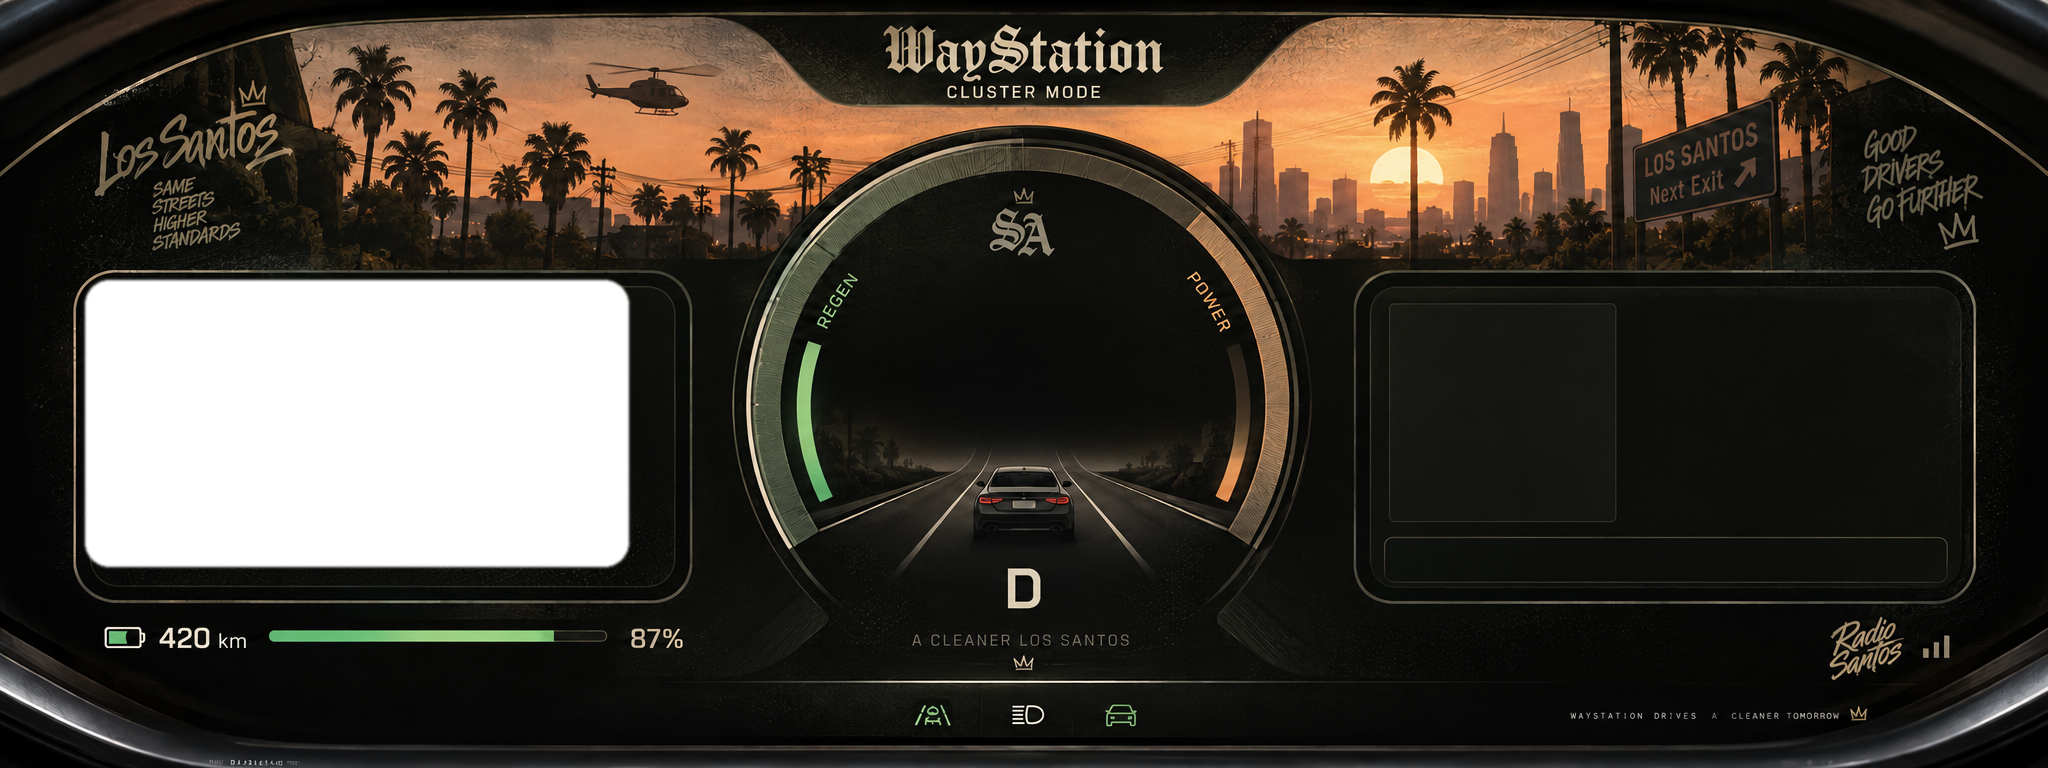
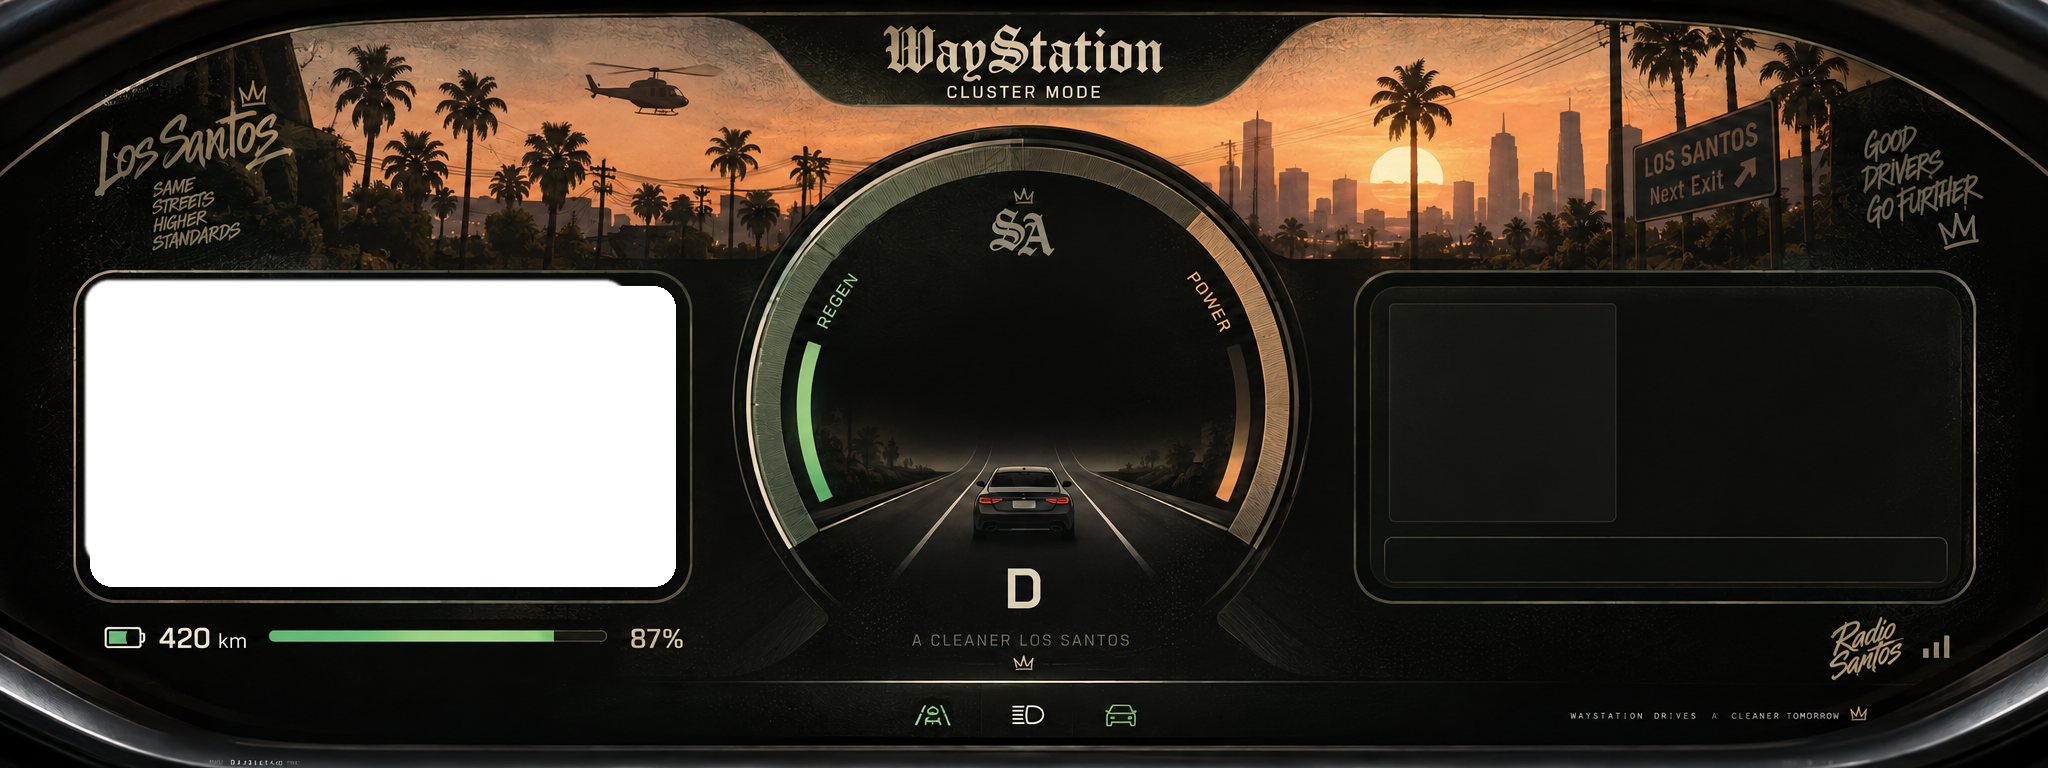
SA cluster: rebuild aperture to true visual screen bounds (2026-09-10)
- Transparent cutout expanded from 544x287 to 591x307
- Now covers x 85-675, y 280-586 (was x 85-628, y 280-566)
- Fixes black strips on right (+47px) and bottom (+20px)
- Rounded corners preserved (~22px radius)
- Magenta diagnostic test page included

Changed region(s): [[0.0312, 0.375, 0.3438, 0.7812]]

diff --git a/magenta-test.html b/magenta-test.html
@@ -1,0 +1,17 @@
+<!DOCTYPE html>
+<html>
+<head>
+<style>
+  body { margin: 0; background: #000; display: flex; justify-content: center; align-items: center; height: 100vh; }
+  #stage { position: relative; width: 1920px; height: 720px; transform: scale(0.6); transform-origin: center; }
+  #magenta { position: absolute; left: 76px; top: 264px; width: 565px; height: 290px; background: #FF00FF; z-index: 20; }
+  #overlay { position: absolute; inset: 0; z-index: 30; background: url('themes/san-andreas/dashboard/cluster-overlay.png') 0 0 / 100% 100% no-repeat; pointer-events: none; }
+</style>
+</head>
+<body>
+<div id="stage">
+  <div id="magenta"></div>
+  <div id="overlay"></div>
+</div>
+</body>
+</html>
